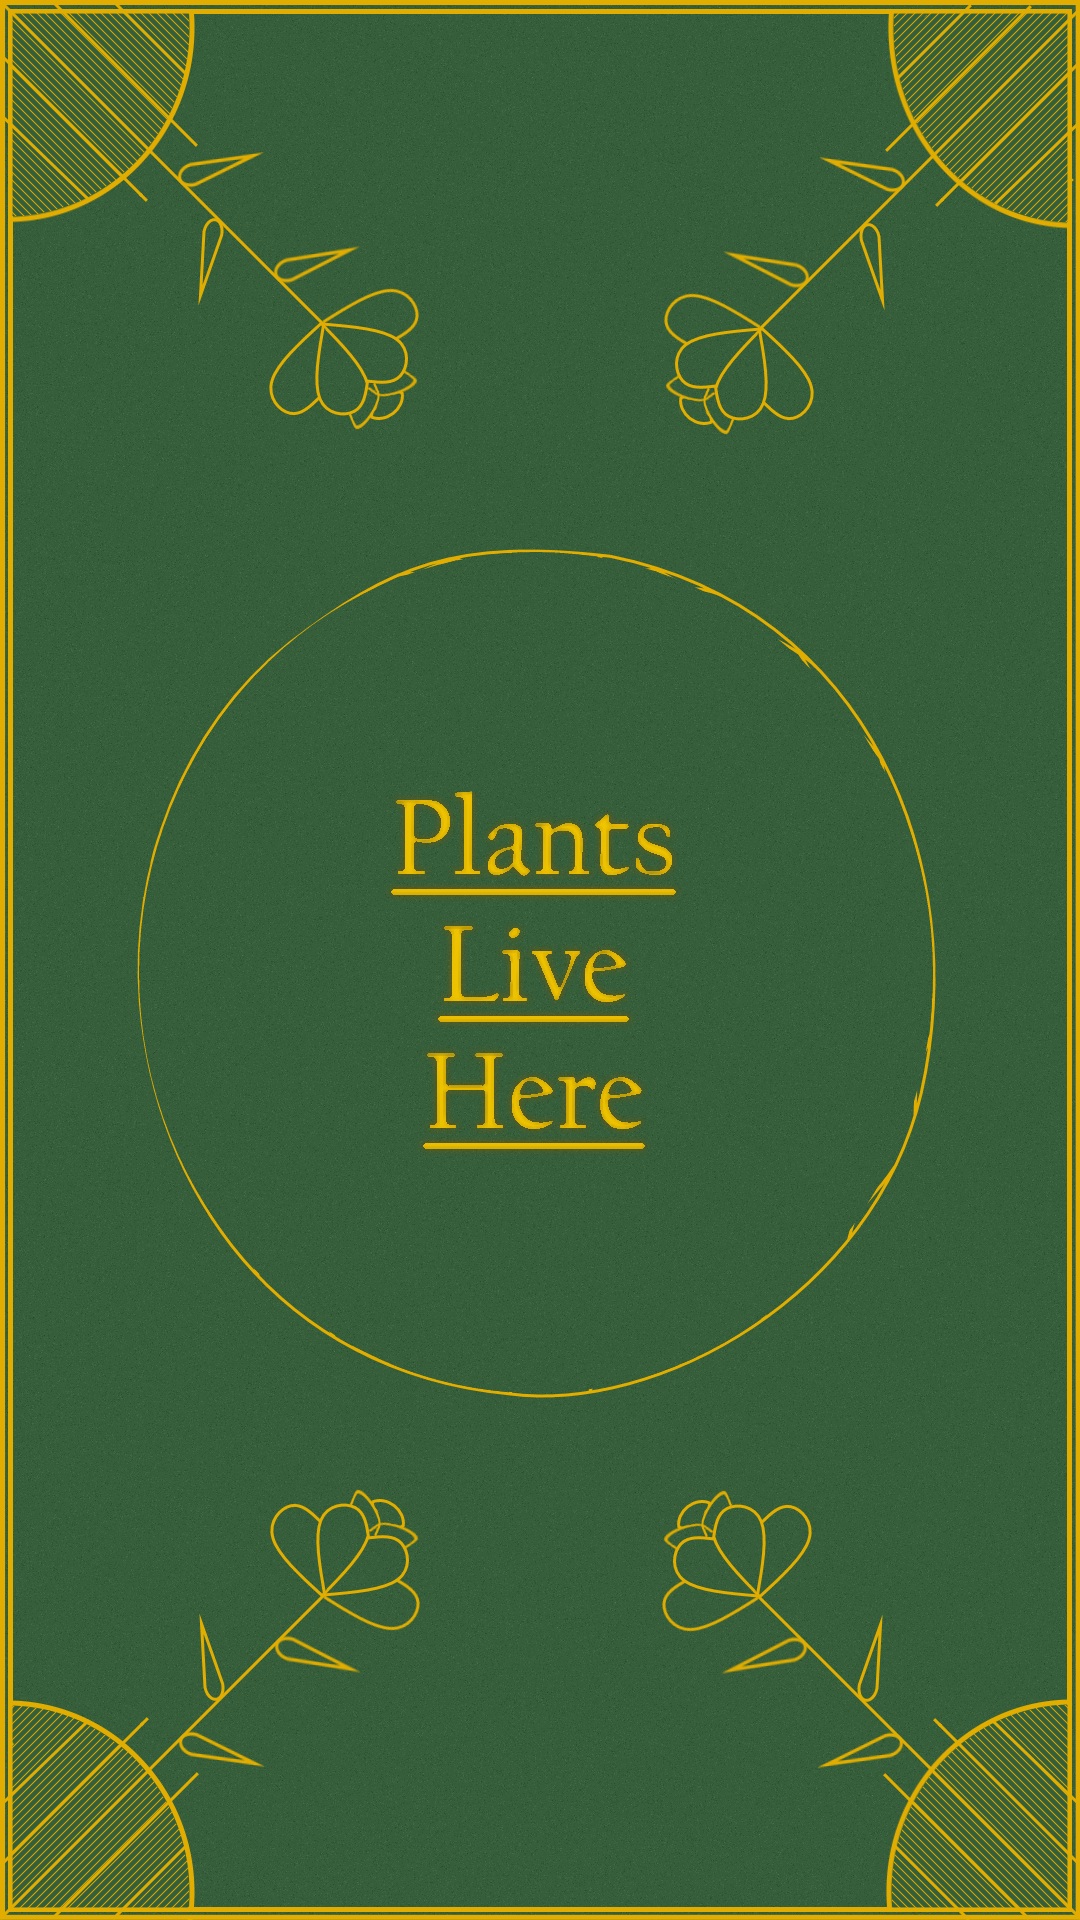
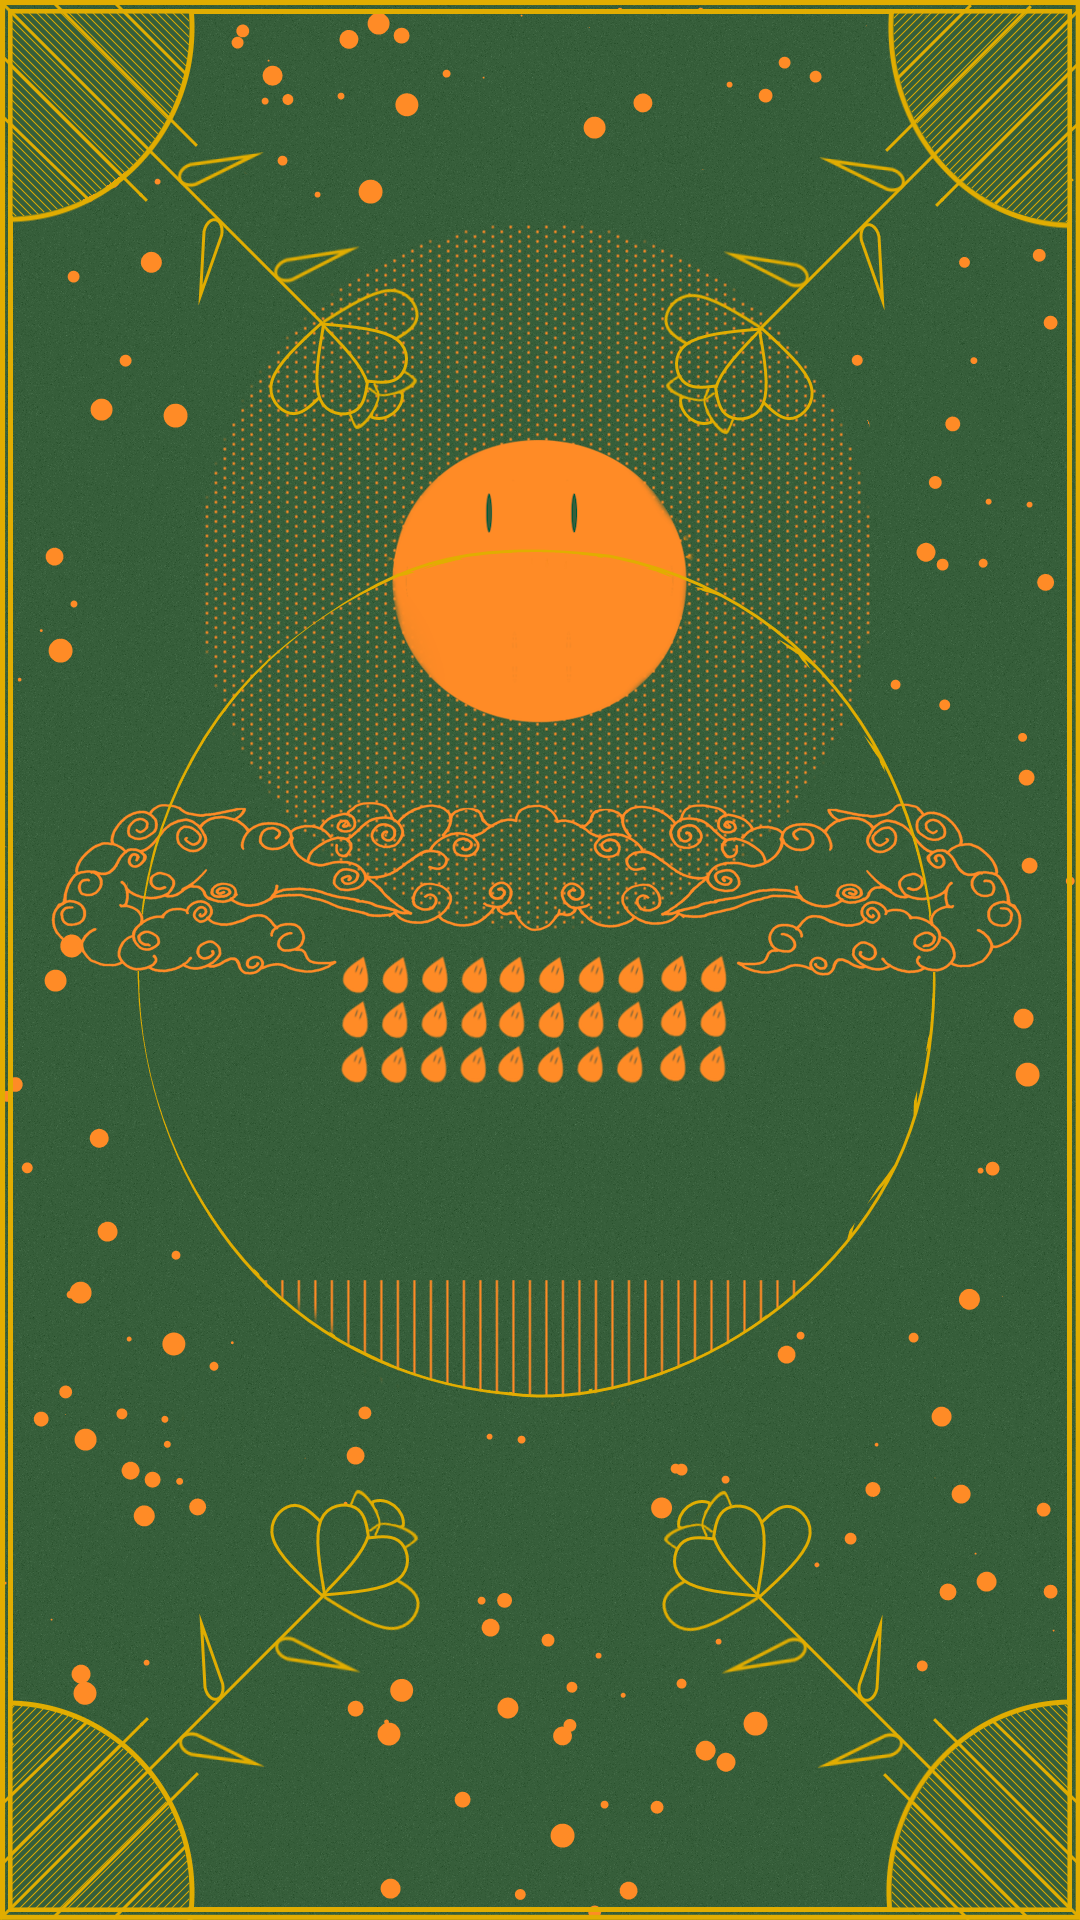
-new background for handling and table pages -Added consistent 10 second updates that update the value of the progress bars on both the handing nd table pages.

diff --git a/FloraSaver/Views/HandlingPage.xaml b/FloraSaver/Views/HandlingPage.xaml
@@ -15,8 +15,8 @@
         </ResourceDictionary>
     </ContentPage.Resources>
     <ContentPage.Behaviors>
-        <toolkit:EventToCommandBehavior Command="{Binding AppearingCommand}" EventName="Appearing" />
-        <toolkit:EventToCommandBehavior Command="{Binding DisappearingCommand}" EventName="Disappearing" />
+        <toolkit:EventToCommandBehavior Command="{Binding AppearingHandlingCommand}" EventName="Appearing" />
+        <toolkit:EventToCommandBehavior Command="{Binding DisappearingHandlingCommand}" EventName="Disappearing" />
     </ContentPage.Behaviors>
     <Grid Padding="0" RowDefinitions="60, 695">
         <Grid Grid.Row="0">
@@ -232,49 +232,55 @@
                                             Grid.Column="2"
                                             Padding="5"
                                             BackgroundColor="Black"
-                                            HeightRequest="60">
+                                            HeightRequest="75">
                                             <Frame.GestureRecognizers>
                                                 <TapGestureRecognizer Command="{Binding Source={RelativeSource AncestorType={x:Type viewmodel:HandlingViewModel}}, Path=PlantSelectionCommand}" CommandParameter="{Binding .}" />
                                             </Frame.GestureRecognizers>
-                                            <Grid ColumnDefinitions="*, 30" RowDefinitions="15,15,15">
+                                            <Grid ColumnDefinitions="*, 30" RowDefinitions="25,25,25">
                                                 <ProgressBar
                                                     Grid.Row="0"
                                                     Grid.Column="0"
                                                     IsVisible="{Binding UseWatering}"
                                                     Progress="{Binding WaterPercent}"
-                                                    ScaleY="2" />
+                                                    ScaleY="2"
+                                                    VerticalOptions="Start" />
                                                 <Label
                                                     Grid.Row="0"
                                                     Grid.Column="1"
                                                     FontSize="14"
                                                     IsVisible="{Binding UseWatering}"
-                                                    Text="{Binding WaterPercent, StringFormat='{0:P0}'}" />
+                                                    Text="{Binding WaterPercent, StringFormat='{0:P0}'}"
+                                                    VerticalOptions="Start" />
                                                 <ProgressBar
                                                     Grid.Row="1"
                                                     Grid.Column="0"
                                                     IsVisible="{Binding UseMisting}"
                                                     Progress="{Binding MistPercent}"
                                                     ProgressColor="LightBlue"
-                                                    ScaleY="2" />
+                                                    ScaleY="2"
+                                                    VerticalOptions="Start" />
                                                 <Label
                                                     Grid.Row="1"
                                                     Grid.Column="1"
                                                     FontSize="14"
                                                     IsVisible="{Binding UseMisting}"
-                                                    Text="{Binding MistPercent, StringFormat='{0:P0}'}" />
+                                                    Text="{Binding MistPercent, StringFormat='{0:P0}'}"
+                                                    VerticalOptions="Start" />
                                                 <ProgressBar
                                                     Grid.Row="2"
                                                     Grid.Column="0"
                                                     IsVisible="{Binding UseMoving}"
                                                     Progress="{Binding SunPercent}"
                                                     ProgressColor="Orange"
-                                                    ScaleY="2" />
+                                                    ScaleY="2"
+                                                    VerticalOptions="Start" />
                                                 <Label
                                                     Grid.Row="2"
                                                     Grid.Column="1"
                                                     FontSize="14"
                                                     IsVisible="{Binding UseMoving}"
-                                                    Text="{Binding SunPercent, StringFormat='{0:P0}'}" />
+                                                    Text="{Binding SunPercent, StringFormat='{0:P0}'}"
+                                                    VerticalOptions="Start" />
                                             </Grid>
 
                                         </Frame>

diff --git a/FloraSaver/Views/TablePage.xaml b/FloraSaver/Views/TablePage.xaml
@@ -131,7 +131,7 @@
                     SelectionMode="None">
                     <CollectionView.ItemTemplate>
                         <DataTemplate x:Name="bloop" x:DataType="model:Plant">
-                            <Grid Padding="10">
+                            <Grid Padding="15,5">
                                 <Frame
                                     Padding="5"
                                     BackgroundColor="Black"

diff --git a/FloraSaver/ViewModels/TableViewModel.cs b/FloraSaver/ViewModels/TableViewModel.cs
@@ -26,17 +26,24 @@ namespace FloraSaver.ViewModels
             _plantNotificationService = plantNotificationService;
             _databaseService = databaseService;
             IsPlantTypeIncluded = true;
-            WaterRectangle = new Rect(0,20,105,105);
+            WaterRectangle = new Rect(0, 20, 105, 105);
         }
 
         [RelayCommand]
         async Task AppearingAsync()
         {
+            timer = new PeriodicTimer(TimeSpan.FromSeconds(10));
             await GetPlantGroupsAsync();
             await GetPlantsAsync();
         }
 
+        [RelayCommand]
+        public void Disappearing()
+        {
+            timer.Dispose();
+        }
 
+        protected PeriodicTimer timer = new PeriodicTimer(TimeSpan.FromSeconds(10));
         [ObservableProperty]
         List<string> orderByValues = PickerService.GetOrderByValues();
         [ObservableProperty]
@@ -47,10 +54,6 @@ namespace FloraSaver.ViewModels
         string searchQuery = string.Empty;
         [ObservableProperty]
         Rect rectNeedsWatering;
-        [ObservableProperty]
-        double percentageToNeedsRefreshing;
-        [ObservableProperty]
-        double percentageToNeedsSunning;
 
         [ObservableProperty]
         bool isPlantTypeIncluded;
@@ -182,16 +185,6 @@ namespace FloraSaver.ViewModels
         }
 
         [RelayCommand]
-        void CurrentPlantNeeds(Plant plant)
-        {
-            //Eh this needs a little work. Gotta account for times
-            var percentageToNeedsWatering = (DateTime.Now - plant.DateOfLastWatering).TotalSeconds /
-                (plant.DateOfNextWatering - plant.DateOfLastWatering).TotalSeconds * 105;
-            RectNeedsWatering = new Rect(0, percentageToNeedsWatering, 105, 105);
-        
-        }
-
-        [RelayCommand]
         public async Task SearchPlantsAsync(string inputString)
         {
             try
@@ -223,13 +216,12 @@ namespace FloraSaver.ViewModels
         }
 
         [RelayCommand]
-        async Task GetPlantsAsync()
+        protected async Task GetPlantsAsync()
         {
             //This is a bad place for it, but this is testing for the Utility that separates elements into textboxes. This would be covered by something real software engineers call a UNIT TEST!
-           //this is testing data for loading from a file.
+            //this is testing data for loading from a file.
             //await LoadClipetTextFileAsync("WelcomeMessage.txt");
-
-
+            PeriodicTimerUpdaterBackgroundAsync(() => CheatUpdateAllPlantProgress());
             if (IsBusy)
                 return;
 
@@ -254,7 +246,7 @@ namespace FloraSaver.ViewModels
                 if (Plants.Count != 0)
                 {
                     Plants.Clear();
-                } 
+                }
                 foreach (var plant in plants)
                 {
                     Plants.Add(plant);
@@ -280,8 +272,32 @@ namespace FloraSaver.ViewModels
             return;
         }
 
+        protected void CheatUpdateAllPlantProgress()
+        {
+            if (Plants.Count > 0)
+            {
+                var tempPlants = new ObservableCollection<Plant>(Plants);
+                foreach (Plant plant in tempPlants)
+                {
+                    plant.WaterPercent = plant.WaterPercent;
+                    plant.MistPercent = plant.MistPercent;
+                    plant.SunPercent = plant.SunPercent;
+                }
+                Plants.Replace(tempPlants);
+                OnPropertyChanged(nameof(Plants));
+            }
+        }
+
+        protected async Task PeriodicTimerUpdaterBackgroundAsync(Action action)
+        {
+            while (await timer.WaitForNextTickAsync())
+            {
+                action();
+            }
+        }
+
         [RelayCommand]
-        async Task GetPlantGroupsAsync()
+        protected async Task GetPlantGroupsAsync()
         {
             if (IsBusy)
                 return;
@@ -379,7 +395,6 @@ namespace FloraSaver.ViewModels
             }
             else
             {
-                CurrentPlantNeeds(plant);
                 await Shell.Current.GoToAsync(nameof(PlantDetailsPage), true, new Dictionary<string, object>
                 {
                     {"Plant", plant },

diff --git a/FloraSaver/ViewModels/HandlingViewModel.cs b/FloraSaver/ViewModels/HandlingViewModel.cs
@@ -20,6 +20,22 @@ namespace FloraSaver.ViewModels
         }
 
         [RelayCommand]
+        async Task AppearingHandlingAsync()
+        {
+            timer = new PeriodicTimer(TimeSpan.FromSeconds(10));
+            await GetPlantGroupsAsync();
+            await GetPlantsAsync();
+            PeriodicTimerUpdaterBackgroundAsync(() => CheatUpdateAllPlantProgress());
+
+        }
+
+        [RelayCommand]
+        public void DisappearingHandling()
+        {
+            timer.Dispose();
+        }
+
+        [RelayCommand]
         void PlantSelection(Plant plant)
         {
             var specificPlant = Plants.FirstOrDefault(_ => _.Id == plant.Id);
